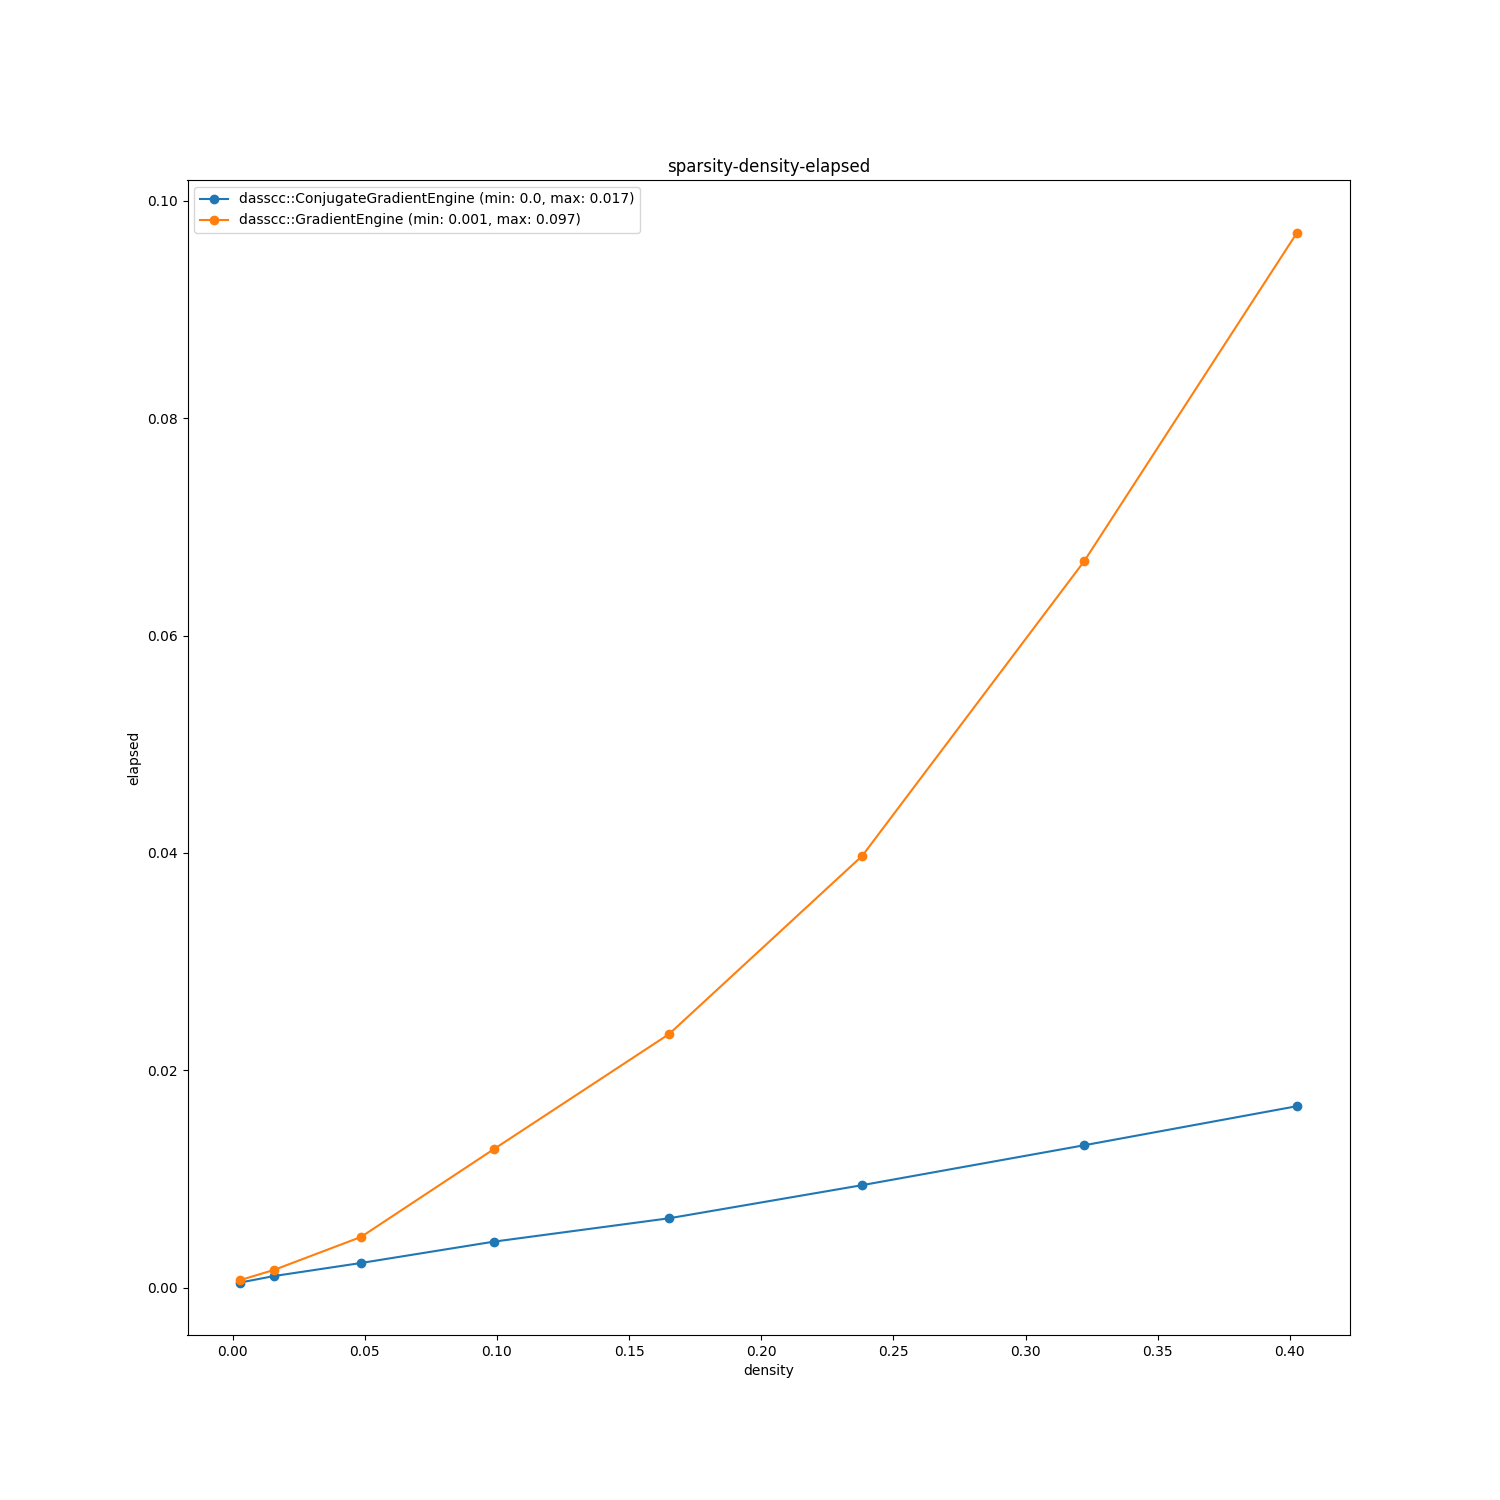
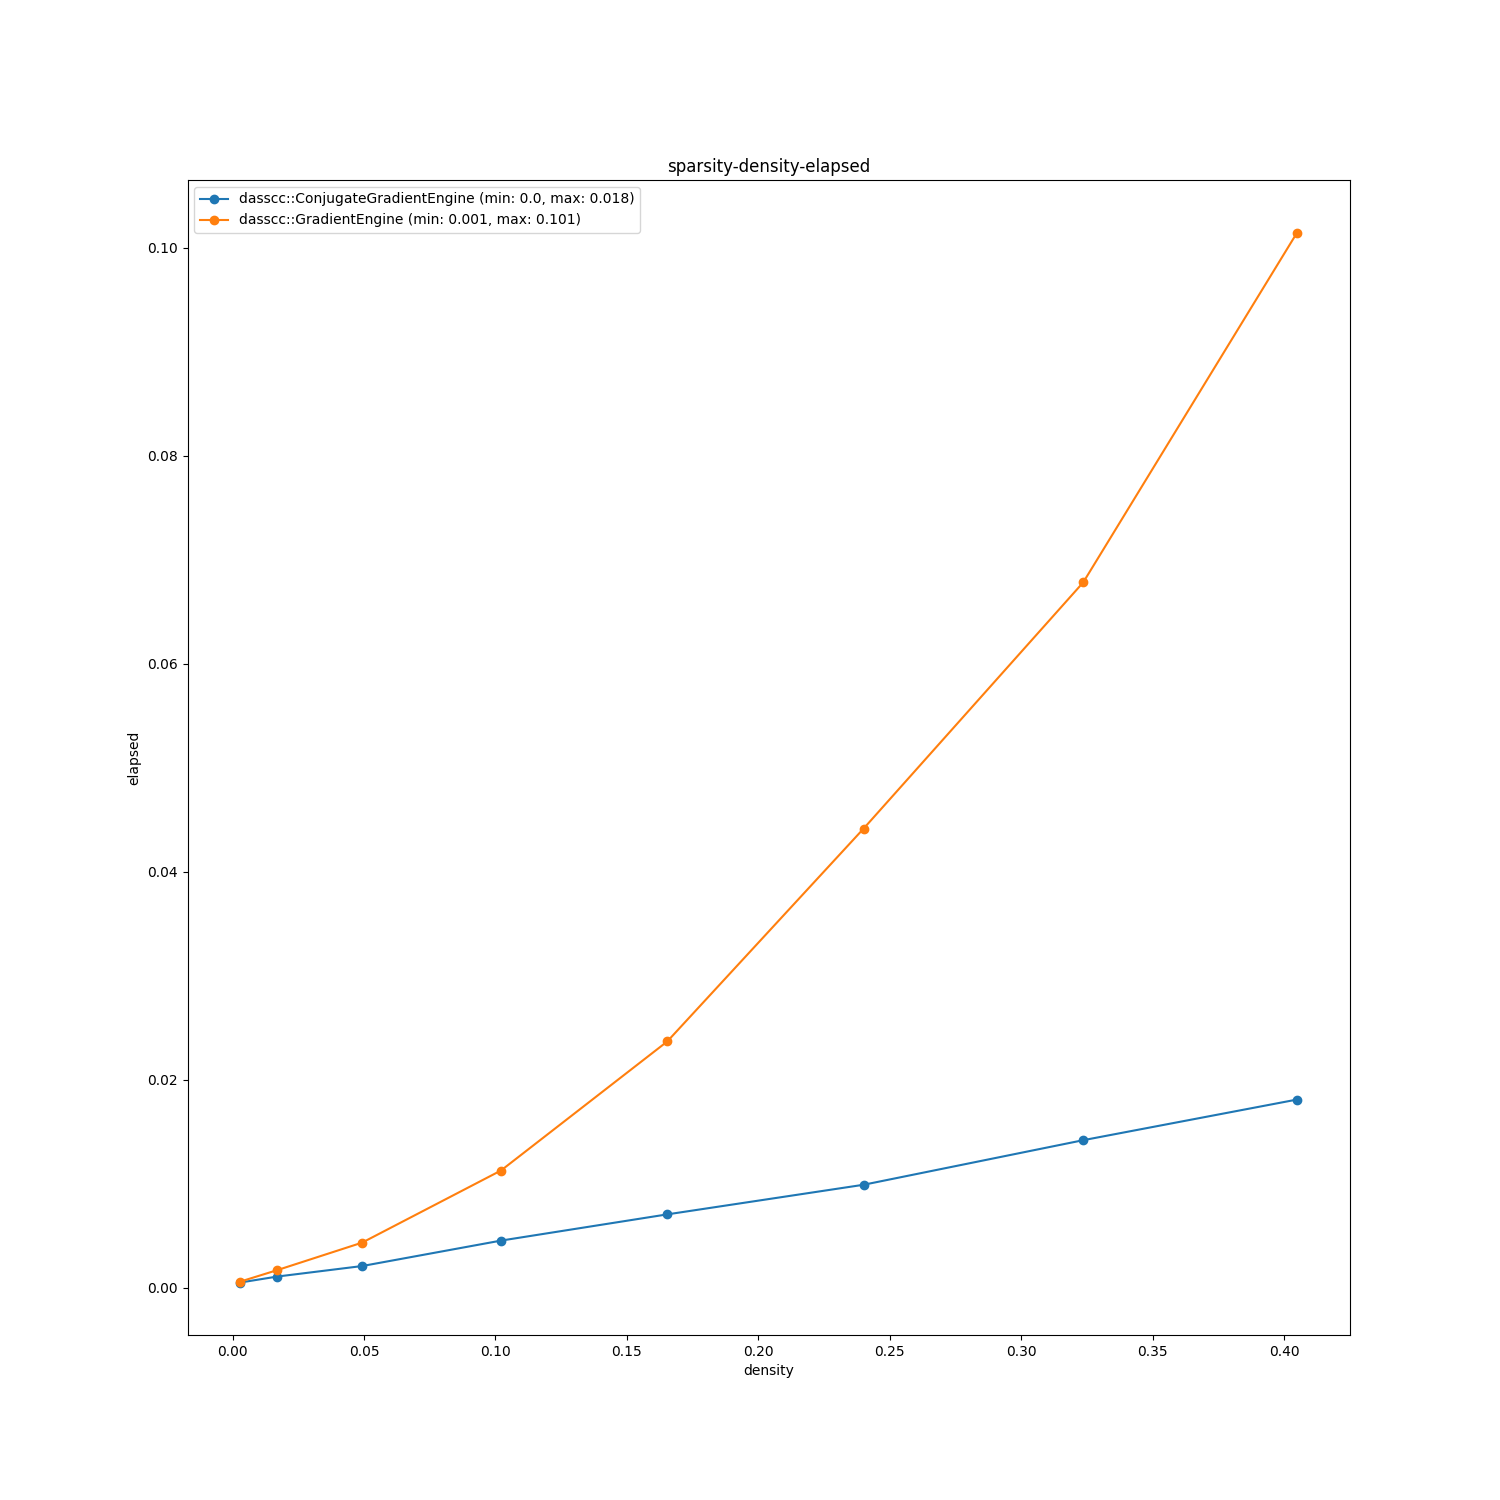
la superbia e' una brutta besta

diff --git a/report/main.tex b/report/main.tex
@@ -205,7 +205,7 @@ Si segnala fin da subito che tutte le matrici convergono per i vari metodi, risu
 \subsection{Metodi basati sul Gradiente}
 
 I due metodi basati sul gradiente hanno un andamento simile: lavorano bene sulle due matrici a bande (vem1/vem2), mentre hanno qualche leggera difficolt\`a a convergere con tolleranze p\`u basse con le due matrici "dense" randomiche (spa1/spa2).
-Un dato significativo \`e il numero di iterazioni necessarie, per il metodo del \textbf{Gradiente Coniugato} \`e di molto inferiore rispetto a quello del \textbf{Gradiente}. A prima vista pu\`o sembrare che il metodo del Gradiente Coniugato sia pi\`u lento per il fatto che esegue pi\`u operazioni per ogni iterazione rispetto al Gradiente, ma siccome il numero di iterazioni \`e complessivamente di scala pi\`u bassa, abbiamo una priva evidenza che suggerisce che sia pi\`u mediamente veloce.
+Un dato significativo \`e il numero di iterazioni necessarie, per il metodo del \textbf{Gradiente Coniugato} \`e di molto inferiore rispetto a quello del \textbf{Gradiente}. A prima vista pu\`o sembrare che il metodo del Gradiente Coniugato sia pi\`u lento per il fatto che esegue pi\`u operazioni per ogni iterazione rispetto al Gradiente, ma siccome il numero di iterazioni \`e complessivamente di scala pi\`u bassa, abbiamo una priva evidenza che suggerisce che sia mediamente pi\`u veloce.
 
 \putimagecouple
   {\putsubimage{./images/it-re-cge.png}{Andamenti (logaritmici) del Numero di Iterazioni con il metodo del Gradiente Coniugato}{png:it-re-cge}{0.4}{0.99}}
@@ -235,8 +235,9 @@ Le quattro matrici hanno dimensione diversa quindi gli andamenti soffrono anche 
   {\putsubimage{./images/001-benchmark-N-elapsed.png}{Andamenti (lineari) del Tempo di Esecuzione con matrici RDD al variare della dimensione}{png:001-benchmark-N-elapsed}{0.4}{0.99}}
   {\putsubimage{./images/002-benchmark-N-elapsed.png}{Andamenti (lineari) del Tempo di Esecuzione con matrici SPD al variare della dimensione}{png:002-benchmark-N-elapsed}{0.4}{0.99}}
 
-In figura \ref{png:001-benchmark-N-elapsed} si riportano i risultati del benchmark su matrici a dominanza diagonale simmetriche e definite positive su tutti e quattro i metodi risoluzione.
-I metodi stazionari convergono pi\`u in fretta al target ($10^-8$) dei metodi basati sul gradiente.
+In figura \ref{png:001-benchmark-N-elapsed} si riportano i risultati del benchmark su matrici a dominanza diagonale simmetriche e definite positive su metodi stazionari.
+Prese delle matrici a dominanzia diagonale casuali si scopre che il metodo di Jacobi converge mediamente pi\`u lentamente del metodo di Gauss-Seidel, un dato in controtendenza rispetto alla sezione precedente.
+Il termine \textit{velocit\`a} \`e da intendersi sia in termini di iterazioni che di tempo, infatti il grande numero di iterazioni necessario (emerso anche con le matrici allegate) nel caso medio porta il metodo di Jacobi a impiegare anche $10 \times$ il tempo necessario a Gauss-Seidel.
 
 Invece in figura \ref{png:002-benchmark-N-elapsed} si riportano i risultati del benchmark su matrici simmetriche e definite positive sui metodi basati sul gradiente.
 Come detto in precedenza il metodo del Gradient Coniugato nel caso di matrici randomiche SPD converge molto pi\`u velocemente del metodo del Gradiente a causa del basso numero di iterazioni necessarie che bilancia il peso di ogni iterazione.
@@ -249,11 +250,8 @@ Infine \`e stato fatto uno studio per verificare come scalano i metodi al variar
   {\putsubimage{./images/001-sparsity-density-elapsed.png}{Andamenti (lineari) del Tempo di Esecuzione con matrici RDD al variare della densit\`a}{png:001-sparsity-density-elapsed}{0.4}{0.99}}
   {\putsubimage{./images/002-sparsity-density-elapsed.png}{Andamenti (lineari) del Tempo di Esecuzione con matrici SPD al variare della densit\`a}{png:002-sparsity-density-elapsed}{0.4}{0.99}}
 
-Questa volta i metodi stazionari sono stati eseguiti in sede separata fin dal principio.
-Dai due grafici emerge come il metodo di \textbf{Jacobi} aumenti di complessit\`a in maniera pi\`u lieve rispetto al metodi di \textbf{Gauss Seidel}, mentre il metodo del \textbf{Gradiente Coniugato} scala molto meglio del metodo del \textbf{Gradiente}.
+Dai due grafici emerge come il metodo di \textbf{Jacobi} aumenti di complessit\`a in maniera pi\`u pesante rispetto al metodo di \textbf{Gauss Seidel} (il quale risulta \textit{quasi} piatto), mentre il metodo del \textbf{Gradiente Coniugato} scala molto meglio del metodo del \textbf{Gradiente}.
 Non c'\`e da sorprendersi, la sezione precedente gi\`a aveva messo in evidenza questo aspetto (e del resto si pu\`o ipotizzare di porre un'equivalenza tra una matrice pi\`u piccola con densit\`a maggiore e una matrice pi\`u grande con densit\`a minore).
-La miglior velocit\`a del metodo di Jacobi si spiega principalmente dalla semplicit\`a delle operazioni al netto del maggior numero di iterazioni.
-Per il metodo del Gradiente Coniugato valgono le considerazioni della sezione precedente.
 
 \printbibliography[title={Bibliografia}]
 \end{document}

diff --git a/sparsity.py b/sparsity.py
@@ -9,7 +9,7 @@ import os
 def matrix_patterns(config: argparse.Namespace) -> Iterable[str]:
   d = config.mindensity
   while d <= config.maxdensity:
-    yield f"{config.kind}:400:{d}"
+    yield f"{config.kind}:800:{d}"
     if config.ratiodensity > 1:
       d *= config.ratiodensity
     else:
@@ -38,9 +38,9 @@ def fresh(config: argparse.Namespace) -> None:
 if __name__ == "__main__":
   cli = argparse.ArgumentParser()
   cli.add_argument('-k', '--kind', type=str, choices=['rdd', 'spd'], default='rdd', help='Minimum Matrix density')
-  cli.add_argument('-f', '--mindensity', type=int, default=0.001, help='Minimum Matrix density')
-  cli.add_argument('-t','--maxdensity', type=int, default=0.04, help='Maximum Matrix density')
-  cli.add_argument('-s','--stepdensity', type=int, default=0.005, help='Step of Matrix densitys')
+  cli.add_argument('-f', '--mindensity', type=int, default=0.016, help='Minimum Matrix density')
+  cli.add_argument('-t','--maxdensity', type=int, default=0.08, help='Maximum Matrix density')
+  cli.add_argument('-s','--stepdensity', type=int, default=0.010, help='Step of Matrix densitys')
   cli.add_argument('-r','--ratiodensity', type=int, default=1, help='Ratio of Matrix densities (if enabled, ratiodensity > 1, it overrides stepdensity)')
   cli.add_argument('-v', '--verbose', action='store_true', default=False, help='verbose output')
   cli.add_argument('-C', '--configure', action='store_true', default=False, help='configure benchmark')

diff --git a/src/dasscc/benchmark.cc b/src/dasscc/benchmark.cc
@@ -256,11 +256,11 @@ void dasscc::ExecuteBenchmark(dasscc::Report& report, const dasscc::Benchmark& b
   for (std::string matrix_pattern : benchmark.matrix_patterns) {
     dasscc::MatrixSpecifier matrix_specifier = dasscc::ParseMatrixSpecifier(matrix_pattern);
     for (double_t tol : benchmark.tols) {
-      // RunIfNotAlready<dasscc::JacobiEngine>(report, matrix_specifier, tol);
-      // RunIfNotAlready<dasscc::GaussSeidelEngine>(report, matrix_specifier, tol);
+      RunIfNotAlready<dasscc::JacobiEngine>(report, matrix_specifier, tol);
+      RunIfNotAlready<dasscc::GaussSeidelEngine>(report, matrix_specifier, tol);
       // RunIfNotAlready<dasscc::RichardsonEngine>(report, matrix_specifier, tol);
-      RunIfNotAlready<dasscc::GradientEngine>(report, matrix_specifier, tol);
-      RunIfNotAlready<dasscc::ConjugateGradientEngine>(report, matrix_specifier, tol);
+      // RunIfNotAlready<dasscc::GradientEngine>(report, matrix_specifier, tol);
+      // RunIfNotAlready<dasscc::ConjugateGradientEngine>(report, matrix_specifier, tol);
     }
   }
 }

diff --git a/src/dasscc/matrix.cc b/src/dasscc/matrix.cc
@@ -192,7 +192,7 @@ void dasscc::RandomRowDiagonalDominant(Eigen::SparseMatrix<double_t, Eigen::RowM
   dasscc::Random(Q, N, N, density);
   matrix = (Eigen::SparseMatrix<double_t, Eigen::RowMajor>(Q.transpose()) * Q);
   for (uint32_t i = 0; i < N; i++) {
-    matrix.coeffRef(i, i) = (abs(matrix.row(i).sum()) + matrix.coeff(i, i) + 10) * 20;
+    matrix.coeffRef(i, i) = (abs(matrix.row(i).cwiseAbs().sum()) + abs(matrix.coeff(i, i)) + 0.1);
   }
 }
 
@@ -201,7 +201,7 @@ void dasscc::RandomColumnDiagonalDominant(Eigen::SparseMatrix<double_t, Eigen::R
   dasscc::Random(Q, N, N, density);
   matrix = (Eigen::SparseMatrix<double_t, Eigen::RowMajor>(Q.transpose()) * Q);
   for (uint32_t i = 0; i < N; i++) {
-    matrix.coeffRef(i, i) = (abs(matrix.col(i).sum()) + matrix.coeff(i, i) + 10) * 20;
+    matrix.coeffRef(i, i) = (abs(matrix.col(i).cwiseAbs().sum()) + abs(matrix.coeff(i, i)) + 0.1);
   }
 }
 

diff --git a/benchmark.py b/benchmark.py
@@ -9,7 +9,7 @@ import os
 def matrix_patterns(config: argparse.Namespace) -> Iterable[str]:
   N = config.minsize
   while N <= config.maxsize:
-    yield f"{config.kind}:{N}:0.10"
+    yield f"{config.kind}:{N}:0.03"
     if config.ratiosize > 1:
       N *= config.ratiosize
     else:
@@ -18,7 +18,7 @@ def matrix_patterns(config: argparse.Namespace) -> Iterable[str]:
 def configure(config: argparse.Namespace) -> None:
   conf = {
     'matrix_patterns': list(matrix_patterns(config)), 'tols': [
-      1e-8
+      1e-4
     ]
   }
   with open("benchmark.json", mode="w") as file:

diff --git a/reader.py b/reader.py
@@ -1,0 +1,19 @@
+#!/bin/bash
+import os
+import sys
+import struct
+
+def parse_details(blob: bytes) -> dict:
+  data = struct.unpack("@d", blob)
+  return {
+    'conditioning': data[0]
+  }
+
+def read_details(path: str) -> dict:
+  with open(path, mode="rb") as file:
+    blob = file.read()
+    return parse_details(blob)
+
+if __name__ == "__main__":
+  for path in sys.argv[1:]:
+    print(path, "=>", read_details(os.path.normpath(path)))
